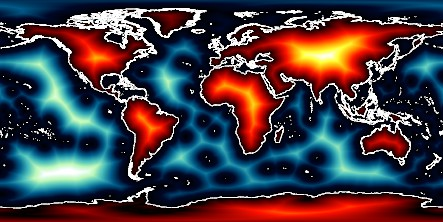
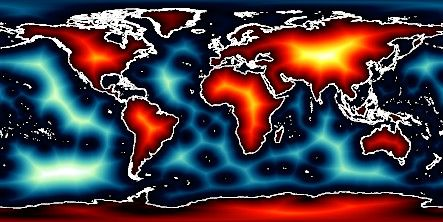
Add SRTM Relief doc (#135)
* Add SRTM Relief doc

* Optimised images with calibre/image-actions

---------

diff --git a/docs/srtm-relief.rst b/docs/srtm-relief.rst
@@ -1,0 +1,54 @@
+NASA SRTM Relief
+-----------------
+
+.. figure:: /_static/nasa-logo-web-rgb.png
+   :align: right
+   :scale: 20 %
+
+.. figure:: /_static/GMT_srtm_relief.jpg
+   :height: 888 px
+   :width: 1774 px
+   :align: center
+   :scale: 40 %
+
+Usage
+~~~~~
+
+You access a SRTM relief grid by specifying the special name
+
+   @srtm_relief[_\ *rru*\]
+
+The SRTM (version 3) 1 and 3 arc-sec tiles are only available over land between 60 degrees south and north latitude.
+This dataset contains a digital elevation model (DEM) of Earth using radar interferometry. 
+The following codes for the optional *rr*\ *u* are supported:
+
+.. _tbl-srtm_relief:
+
+  ==== ================= === =======  ==================================================
+  Code Dimensions        Reg Size     Description
+  ==== ================= === =======  ==================================================
+  03s    432001 x 216001 g    6.8 GB  3 arc second global relief (SRTM3S original)
+  01s   1296001 x 432001 g     41 GB  1 arc second global relief (SRTM1S original)
+  ==== ================= === =======  ==================================================
+
+Note that both resolutions are tiled.
+See :gmt-docs:`Remote Datasets <datasets/remote-data.html>` for more information. 
+
+See :gmt-docs:`GMT remote dataset usage <datasets/remote-data.html#usage>` for when resolution codes are optional or required.
+All of these data will, when downloaded, be placed in your ~/.gmt/server directory, with
+the srtm_relief files being placed in an ``earth/earth_relief`` sub-directory. If you
+do not specify a CPT then the default CPT for this dataset (the GMT master *geo* CPT) will be used.
+
+Technical Information
+~~~~~~~~~~~~~~~~~~~~~
+
+The 3 and 1 arc second data are the SRTM 1x1 degree tiles from NASA. The data is stored as highly compressed JPEG2000 tiles on the GMT server. 
+These are individually downloaded as requested, converted to netCDF grids and stored in subdirectories srtm1 and srtm3 under the server directory, 
+and assembled into a seamless grid using grdblend.
+**Note**: This dataset is utilized by other relief grids (e.g., earth_relief) when resolutions of 03s or 01s are requested. In these cases, the other grid is automatically up-sampled to fill in missing values over the oceans and in high-latitude regions (above 60°).
+
+Data References
+~~~~~~~~~~~~~~~
+
+#. SRTMGL3 tiles: [https://lpdaac.usgs.gov/products/srtmgl3v003].
+#. SRTMGL1 tiles: [https://lpdaac.usgs.gov/products/srtmgl1v003].

diff --git a/docs/index.rst b/docs/index.rst
@@ -106,6 +106,12 @@ Information about the GMT data server and mirrors can be found on the
         :img-bottom: /_static/GMT_earth_daynight_thumbnail.jpg
         :text-align: center
 
+    .. grid-item-card:: NASA SRTM Relief
+        :link: srtm-relief
+        :link-type: doc
+        :img-bottom: /_static/GMT_srtm_relief_thumbnail.jpg
+        :text-align: center
+
     .. grid-item-card:: WDMAM World Digital Magnetic Anomaly Map
         :link: earth-wdmam
         :link-type: doc
